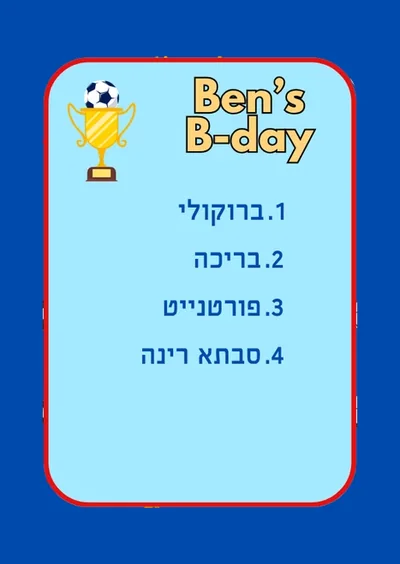
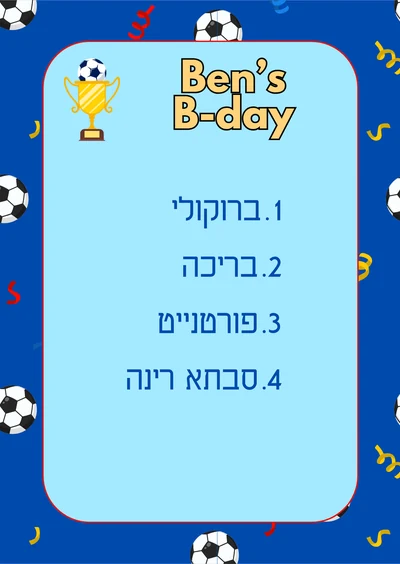
feat(home): swipe hint, box and business copy, האלאנד cards that match the print
- The swipe hint under the designs is one drawn arrow at the left end of
  "החליקו", pointing left. It is an SVG, since a glyph arrow mirrors in RTL;
  checked in Chromium and WebKit.
- The box list: "קלף חיילי משחק עם הפרצופים שלכם".
- The business WhatsApp button: "לפניות עסקיות בוואטסאפ". Below 360 px the
  pill's side padding drops to 18 px so the label stays on one line at 320.
- האלאנד (football-boys): the homepage cards had a thick red outline and a
  flat blue frame with the footballs painted out. The card that prints has a
  thin line and a patterned frame. Front 1 is re-cut from the live template
  card, and the back from the print render.
- The repo's Canva sheet has diverged from the volume's (thick outline, white
  frame), so fronts 2-8 cannot be re-cut from it. The homepage now shows
  front 1 only, and f2-f8 are removed.
- A unit test fails if a card front ships beyond a design's `fronts` count.

diff --git a/tests/e2e/home-round-1019.spec.js b/tests/e2e/home-round-1019.spec.js
@@ -1,0 +1,65 @@
+import { test, expect } from '@playwright/test';
+
+// new.html, the owner's 2026-10-19 round:
+// - the swipe hint has ONE arrow, drawn (a glyph arrow mirrors in RTL), at the left end of the line and pointing left;
+// - the business WhatsApp button reads "לפניות עסקיות בוואטסאפ" on one line, inside the page, at 320 and 390;
+// - the tapped view's box list names the pawn card.
+
+test.beforeEach(async ({ page }) => {
+  await page.route('**/api/custom-designs', (route) => route.fulfill({ json: { designs: [] } }));
+});
+
+test('the swipe hint: one drawn arrow at the left end, pointing left', async ({ page }) => {
+  await page.setViewportSize({ width: 390, height: 844 });
+  await page.goto('/new.html');
+  const hint = page.locator('.strip-hint');
+  await hint.scrollIntoViewIfNeeded();
+  await expect(hint).toBeVisible();
+  await expect(hint).toHaveText('החליקו');
+  expect(await hint.textContent()).not.toMatch(/[←→‹›<>]/);
+  const arrow = hint.locator('svg');
+  await expect(arrow).toHaveCount(1);
+  const a = await arrow.boundingBox(),
+    t = await hint.locator('span').boundingBox();
+  // left of the word, on its line
+  expect(a.x + a.width).toBeLessThanOrEqual(t.x + 1);
+  expect(Math.abs(a.y + a.height / 2 - (t.y + t.height / 2))).toBeLessThan(6);
+  // its head is drawn at the left (x=5 of 24) and nothing mirrors it
+  await expect(arrow.locator('path')).toHaveAttribute('d', 'M19 12H5M11 6l-6 6 6 6');
+  expect(await arrow.evaluate((e) => getComputedStyle(e).transform)).toBe('none');
+  expect(await hint.evaluate((e) => getComputedStyle(e).transform)).toBe('none');
+});
+
+for (const width of [320, 390]) {
+  test(`the business WhatsApp button fits on one line at ${width}`, async ({ page }) => {
+    await page.setViewportSize({ width, height: 800 });
+    await page.goto('/new.html');
+    const label = page.locator('[data-edit="new-biz-wa"]');
+    await label.scrollIntoViewIfNeeded();
+    await expect(label).toHaveText('לפניות עסקיות בוואטסאפ');
+    const pill = label.locator('xpath=..');
+    const fit = await pill.evaluate((p) => {
+      const s = p.querySelector('[data-edit="new-biz-wa"]'),
+        r = p.getBoundingClientRect(),
+        lines = s.getClientRects().length,
+        lh =
+          parseFloat(getComputedStyle(s).lineHeight) ||
+          parseFloat(getComputedStyle(s).fontSize) * 1.3;
+      return {
+        lines,
+        oneLine: s.getBoundingClientRect().height < lh * 1.5,
+        clipped: p.scrollWidth > p.clientWidth + 1,
+        inPage: r.left >= 0 && r.right <= document.documentElement.clientWidth,
+      };
+    });
+    expect(fit).toEqual({ lines: 1, oneLine: true, clipped: false, inPage: true });
+  });
+}
+
+test('the tapped view lists the pawn card in the box', async ({ page }) => {
+  await page.goto('/new.html');
+  await expect(page.locator('[data-edit="new-view-inbox-3"]')).toHaveText(
+    'קלף חיילי משחק עם הפרצופים שלכם',
+    { useInnerText: true }
+  );
+});

diff --git a/site/new.html b/site/new.html
@@ -131,7 +131,10 @@
         כל עיצוב מתאים לכל חגיגה&nbsp;- את הכותרת אתם כותבים
       </p>
       <div class="strip" id="strip" aria-label="העיצובים"></div>
-      <div class="strip-hint" aria-hidden="true">← החליקו →</div>
+      <div class="strip-hint" aria-hidden="true">
+        <span>החליקו</span
+        ><svg viewBox="0 0 24 24" focusable="false"><path d="M19 12H5M11 6l-6 6 6 6" /></svg>
+      </div>
       <div class="order">
         <a class="pill" href="products.html" data-ga="order_started" data-ga-cta="designs"
           ><span data-edit="new-designs-cta">בונים את המשחק</span
@@ -457,7 +460,7 @@
           <ul>
             <li data-edit="new-view-inbox-1">חפיסת קלפים מותאמת אישית</li>
             <li data-edit="new-view-inbox-2">לוח משחק</li>
-            <li data-edit="new-view-inbox-3">חיילי משחק עם הפרצופים שלכם</li>
+            <li data-edit="new-view-inbox-3">קלף חיילי משחק עם הפרצופים שלכם</li>
             <li data-edit="new-view-inbox-4">דף חוקים</li>
           </ul>
         </div>
@@ -506,7 +509,7 @@
           rel="noopener"
           data-ga="whatsapp_click"
           data-ga-cta="business"
-          ><span data-edit="new-biz-wa">דברו איתנו בוואטסאפ</span
+          ><span data-edit="new-biz-wa">לפניות עסקיות בוואטסאפ</span
           ><svg class="wa" viewBox="0 0 24 24" aria-hidden="true" focusable="false">
             <path
               d="M19.05 4.91A9.82 9.82 0 0 0 12.04 2C6.58 2 2.13 6.45 2.13 11.91c0 1.75.46 3.45 1.32 4.95L2 22l5.25-1.38a9.9 9.9 0 0 0 4.79 1.22h.01c5.46 0 9.91-4.45 9.91-9.91 0-2.65-1.03-5.14-2.91-7.02ZM12.05 20.15h-.01a8.2 8.2 0 0 1-4.18-1.15l-.3-.18-3.11.82.83-3.04-.2-.31a8.2 8.2 0 0 1-1.26-4.38c0-4.54 3.7-8.23 8.24-8.23a8.2 8.2 0 0 1 8.23 8.24c0 4.54-3.7 8.23-8.24 8.23Zm4.52-6.16c-.25-.12-1.47-.72-1.69-.81-.23-.08-.39-.12-.56.13-.16.25-.64.81-.79.97-.14.17-.29.19-.54.06-.25-.12-1.05-.39-1.99-1.23-.74-.66-1.23-1.47-1.38-1.72-.14-.25-.01-.38.11-.51.11-.11.25-.29.37-.43.13-.14.17-.25.25-.41.08-.17.04-.31-.02-.43-.06-.12-.56-1.34-.76-1.84-.2-.48-.41-.42-.56-.42-.14-.01-.31-.01-.48-.01a.92.92 0 0 0-.66.31c-.23.25-.87.85-.87 2.07 0 1.22.89 2.4 1.01 2.56.12.17 1.75 2.67 4.23 3.74.59.26 1.05.41 1.41.52.59.19 1.13.16 1.56.1.48-.07 1.47-.6 1.67-1.18.21-.58.21-1.07.14-1.18-.06-.1-.22-.16-.47-.28Z"

diff --git a/site/css/home-new.css b/site/css/home-new.css
@@ -588,10 +588,24 @@ header .pill {
   margin-top: 32px;
   font: 700 15px/1 var(--font-body);
 }
+/* one arrow at the left end, pointing left: an SVG, since a glyph arrow mirrors in RTL */
 .strip-hint {
   position: relative;
+  display: flex;
+  align-items: center;
+  justify-content: center;
+  gap: 6px;
   font: var(--weight-strong) 13px/1 var(--font-body);
   letter-spacing: 0.04em;
+}
+.strip-hint svg {
+  width: 16px;
+  height: 16px;
+  fill: none;
+  stroke: currentColor;
+  stroke-width: 2.2;
+  stroke-linecap: round;
+  stroke-linejoin: round;
 }
 .order {
   position: relative;
@@ -1552,6 +1566,13 @@ dialog.menu .pill {
   height: 22px;
   fill: currentColor;
   flex: none;
+}
+/* "לפניות עסקיות בוואטסאפ" needs ~209px: on a 320 phone the standard side padding left 204 and it wrapped */
+@media (max-width: 359px) {
+  .biz .pill {
+    padding-right: 18px;
+    padding-left: 18px;
+  }
 }
 .biz-in {
   max-width: 560px;

diff --git a/tests/unit/home-data.test.js b/tests/unit/home-data.test.js
@@ -178,6 +178,15 @@ describe('the designs come from the live catalog', () => {
     }
   });
 
+  it('ships no card fronts beyond what each design shows (a dropped front leaves no file behind)', () => {
+    const cards = fs.readdirSync(path.join(SITE, 'assets/home/cards'));
+    for (const [id, art] of Object.entries(DESIGN_ART)) {
+      const fronts = cards.filter((f) => new RegExp(`^${id}-f\\d+(@2x)?\\.(webp|jpg)$`).test(f));
+      const nums = [...new Set(fronts.map((f) => +f.match(/-f(\d+)/)[1]))].sort((a, b) => a - b);
+      expect(nums, id).toEqual(Array.from({ length: art.fronts }, (_, i) => i + 1));
+    }
+  });
+
   it('shows a public custom design it has no art for from its own template card', () => {
     const [d] = homeDesigns([
       custom('new-one', 'חדש', {

diff --git a/site/js/home-data.js b/site/js/home-data.js
@@ -66,9 +66,10 @@ export const DESIGN_ART = {
     board2x: true,
     sharp: [576, 576],
   },
+  // one front: cut from the template card that prints (thin red line, patterned frame); fronts 2-8 exist only on the volume
   'football-boys': {
     color: '#2a52be',
-    fronts: 8,
+    fronts: 1,
     back: true,
     board: true,
     board2x: true,
